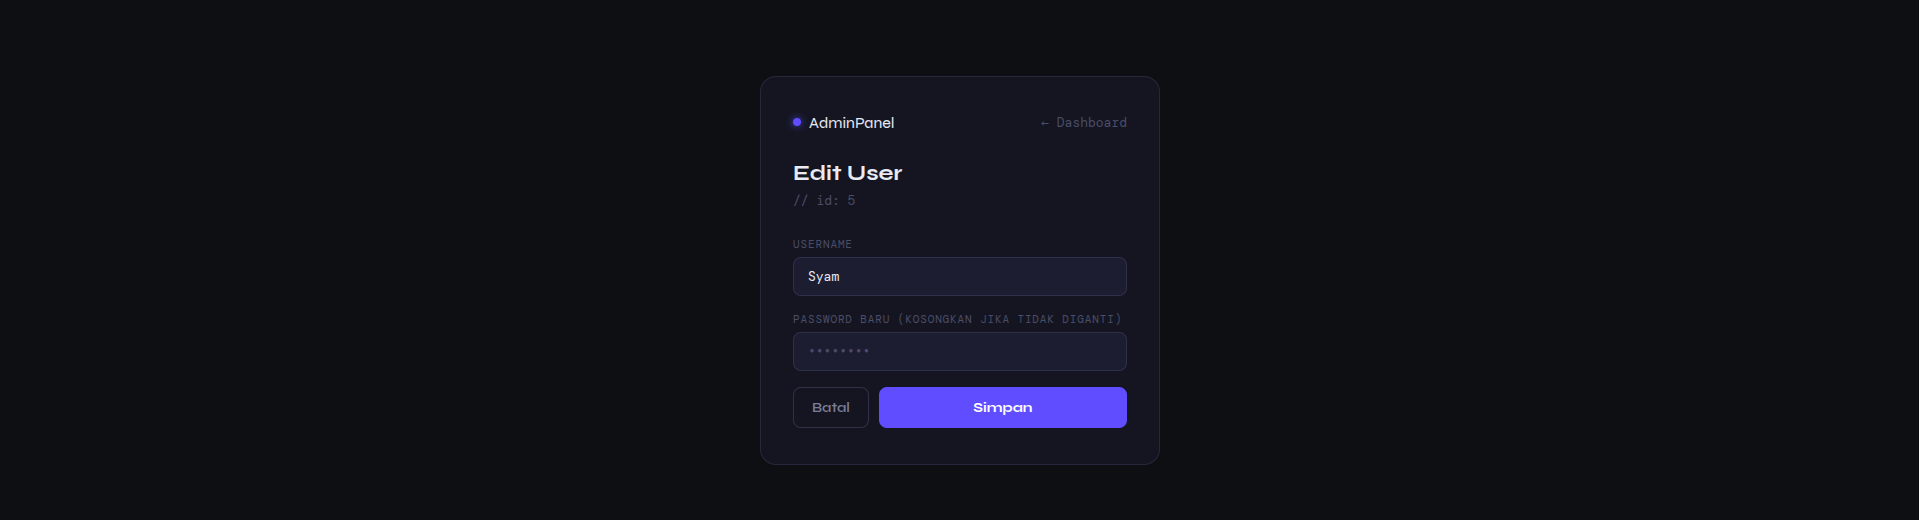
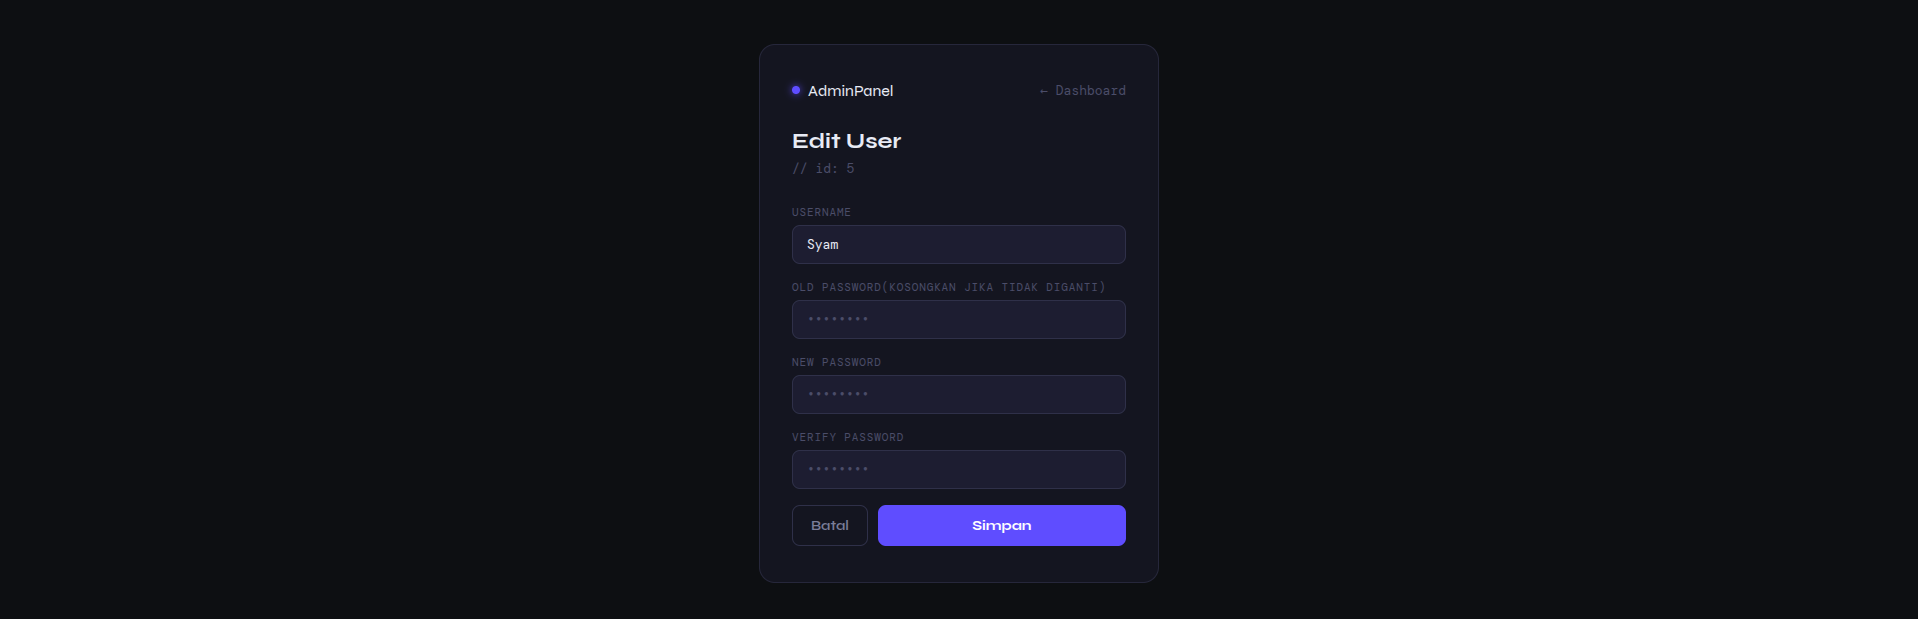
menambahkan fitur Update Password

diff --git a/app/controllers/DashboarController.php b/app/controllers/DashboarController.php
@@ -31,23 +31,55 @@ class DashboarController {
         AdminMiddleware::check();
         
         $user = $this->usermodel->ambilUserberdasarkanid($id);
-        $error = null;
+        $errors = null;
         if (isset($_POST['update'])) {
-            $username = $_POST['username'] ?? "";
-            $error = $this->validate_update($username);
+            $data = [
+                'username' => $_POST['username'] ?? '',
+                'new_password' => $_POST['new_password'] ?? '',
+                'old_password' => $_POST['old_password'] ?? '',
+                'verify_password' => $_POST['verify_password'] ?? ''
+            ];
+            $errors = $this->validate_update($data, $user['password']);
 
-            if (empty($error)) {
-                $this->usermodel->updateUser($username, $id);
+            if (empty($errors)) {
+                $this->usermodel->updateUser($data['username'], $id);
+
+                if (!empty($data['new_password']))
+                    $this->usermodel->updatePassword($data['new_password'], $id);
+
                 header("Location: /public/index.php?action=dashboard");
                 exit;   
             }
         }
         require __DIR__ . "/../views/edit.php";
     }
-    private function validate_update($username) {
-        $usernametrim = trim($username);
-        if (empty($usernametrim)) 
-            return "Username tidak boleh kosong!";
-    }
+        private function validate_update(array $data, $password) {
+            $errors = [];
+            $data = array_map('trim', $data);
+            $PasswordmaudiGanti = !empty($data['new_password']) || !empty($data['old_password']) || !empty($data['verify_password']);
+            if (empty($data['username']))
+                $errors[] = "Username tidak boleh kosong!";
+            if ($PasswordmaudiGanti) {
+                // Validasi input kosong
+                if (empty($data['old_password'])) 
+                    $errors[] = "Old Password tolong di isi!";
+                if (empty($data['new_password']))
+                    $errors[] = "New Password tolong di isi!";
+                if (empty($data['verify_password'])) 
+                    $errors[] = "Verify Password tolong di isi!";
+                if (empty($errors)) {
+                    // Validasi Old Password User
+                    if (!password_verify($data['old_password'], $password))
+                        $errors[] = "Old Password salah!";
+                    // Validasi New Password == Verify Password
+                    if ($data['new_password'] !== $data['verify_password'])
+                        $errors[] = "Password tidak cocok!";
+                    // Validasi minimal character Password
+                    if (strlen($data['new_password']) < 8)
+                        $errors[] = "Password minimal 8 karakter!";
+                }
+            }
+            return $errors;
+        }
 }
 ?>

diff --git a/app/views/edit.php b/app/views/edit.php
@@ -1,6 +1,6 @@
 <?php
 $user  = $user ?? [];
-$error = $error ?? null;
+$errors = $errors ?? null;
 ?>
 <!DOCTYPE html>
 <html lang="en">
@@ -189,8 +189,10 @@ $error = $error ?? null;
     <h1>Edit User</h1>
     <div class="subtitle">// id: <?= htmlspecialchars($user['id'] ?? '-') ?></div>
 
-    <?php if ($error): ?>
-    <div class="error-box"><?= htmlspecialchars($error) ?></div>
+    <?php if (!empty($errors)): ?>
+        <?php foreach ($errors as $e): ?>
+            <div class="error-box"><?= htmlspecialchars($e) ?></div> 
+        <?php endforeach; ?>
     <?php endif; ?>
 
     <?php if (empty($user)): ?>
@@ -212,13 +214,32 @@ $error = $error ?? null;
         </div>
 
         <div class="field">
-            <label>Password baru <span style="color:var(--text3)">(kosongkan jika tidak diganti)</span></label>
+            <label>Old Password<span style="color:var(--text3)">(kosongkan jika tidak diganti)</span></label>
             <input
                 type="password"
-                name="password"
+                name="old_password"
                 placeholder="••••••••"
             >
         </div>
+
+        <div class="field">
+            <label>New Password <span style="color:var(--text3)"></span></label>
+            <input
+                type="password"
+                name="new_password"
+                placeholder="••••••••"
+            >
+        </div>
+
+        <div class="field">
+            <label>Verify Password <span style="color:var(--text3)"></span></label>
+            <input
+                type="password"
+                name="verify_password"
+                placeholder="••••••••"
+            >
+        </div>
+
 
         <div class="btn-row">
             <a href="index.php?action=dashboard" class="btn-secondary">Batal</a>

diff --git a/app/models/User.php b/app/models/User.php
@@ -60,6 +60,18 @@ class User {
         );
         return $pernyataan->execute();
     }
+    public function updatePassword($password, $id) {
+        $hash = password_hash($password, PASSWORD_DEFAULT);
+
+        $perintah_query = "UPDATE Users SET password = ? WHERE id = ?";
+        $pernyataan = $this->db->prepare($perintah_query);
+        $pernyataan->bind_param(
+            "si",
+            $hash,
+            $id
+        );
+        return $pernyataan->execute();
+    }
     public function ambilUserberdasarkanid($id) {
         $perintah_query = "SELECT * FROM Users WHERE id = ?";
         $pernyataan = $this->db->prepare($perintah_query);

diff --git a/app/controllers/AuthController.php b/app/controllers/AuthController.php
@@ -47,7 +47,7 @@ class AuthController {
         if (empty($password))
             return "Password tolong di isi!";
         if (strlen($password) < 8)
-            return "Password harus lebih dari 8 karakter!";
+            return "Password minimal 8 karakter!";
     }
     private function validate_login($username, $password) {
         if (empty($username))

diff --git a/README.md b/README.md
@@ -15,7 +15,8 @@ Project ini dibuat untuk belajar backend fundamental sebelum masuk ke framework 
 * Separation of concerns
 * CSRF Protection
 * Role based access
-
+* Flash messages
+* Validation Layer
 ---
 
 ## Features
@@ -31,6 +32,8 @@ Project ini dibuat untuk belajar backend fundamental sebelum masuk ke framework 
 - Dashboard user listing
 - CSRF Token
 - Role Admin/User
+- Validation Layer
+- Flash Messages
 
 ---
 
@@ -134,14 +137,10 @@ class Database {
 ## Notes
     
 * Project ini masih versi belajar (belum production ready)
-* Belum ada validation layer yang lengkap
 
 ---
 
-## Future Improvements 
-
-* Form validation layer
-* Flash messages
+## Future Improvements?
 
 ---
 